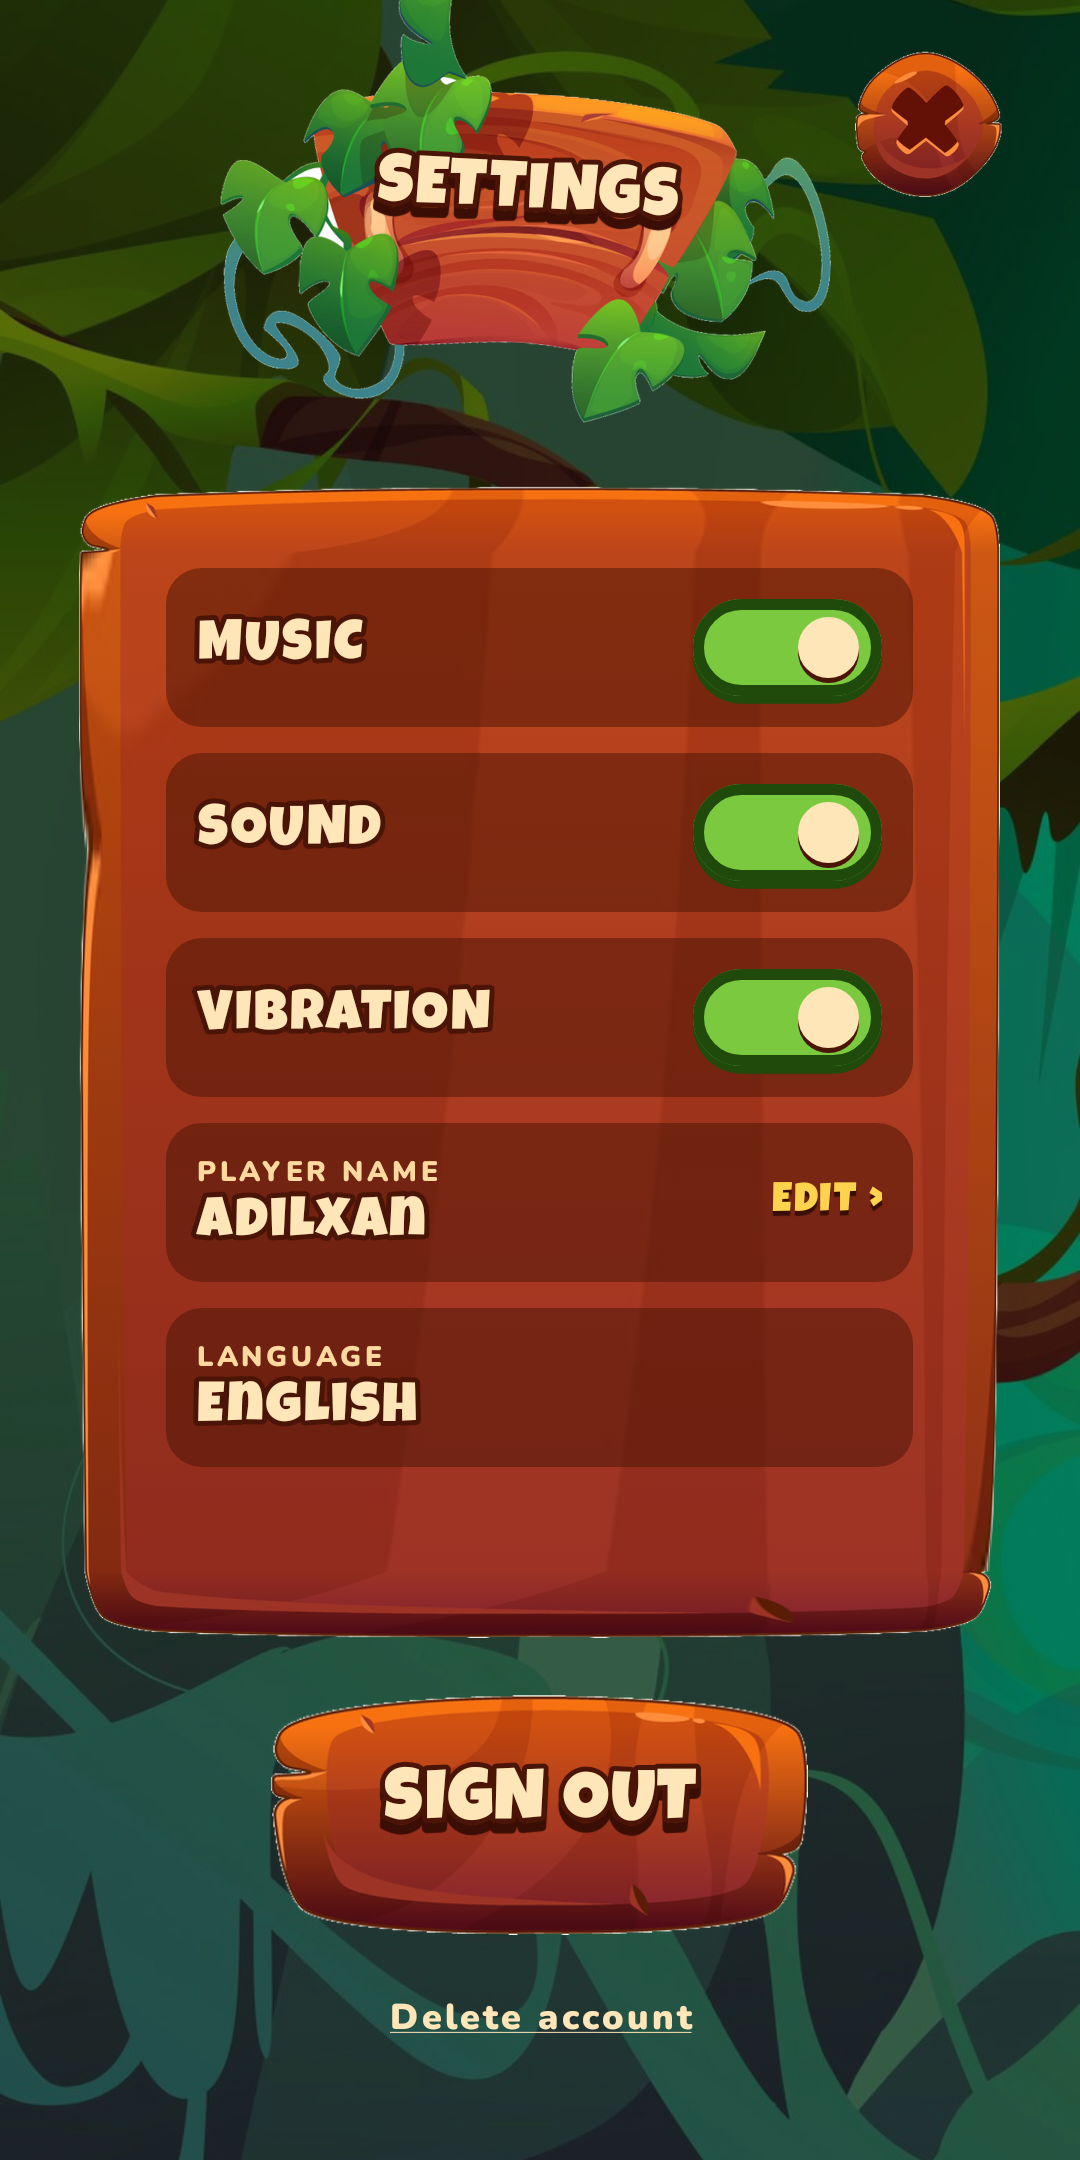
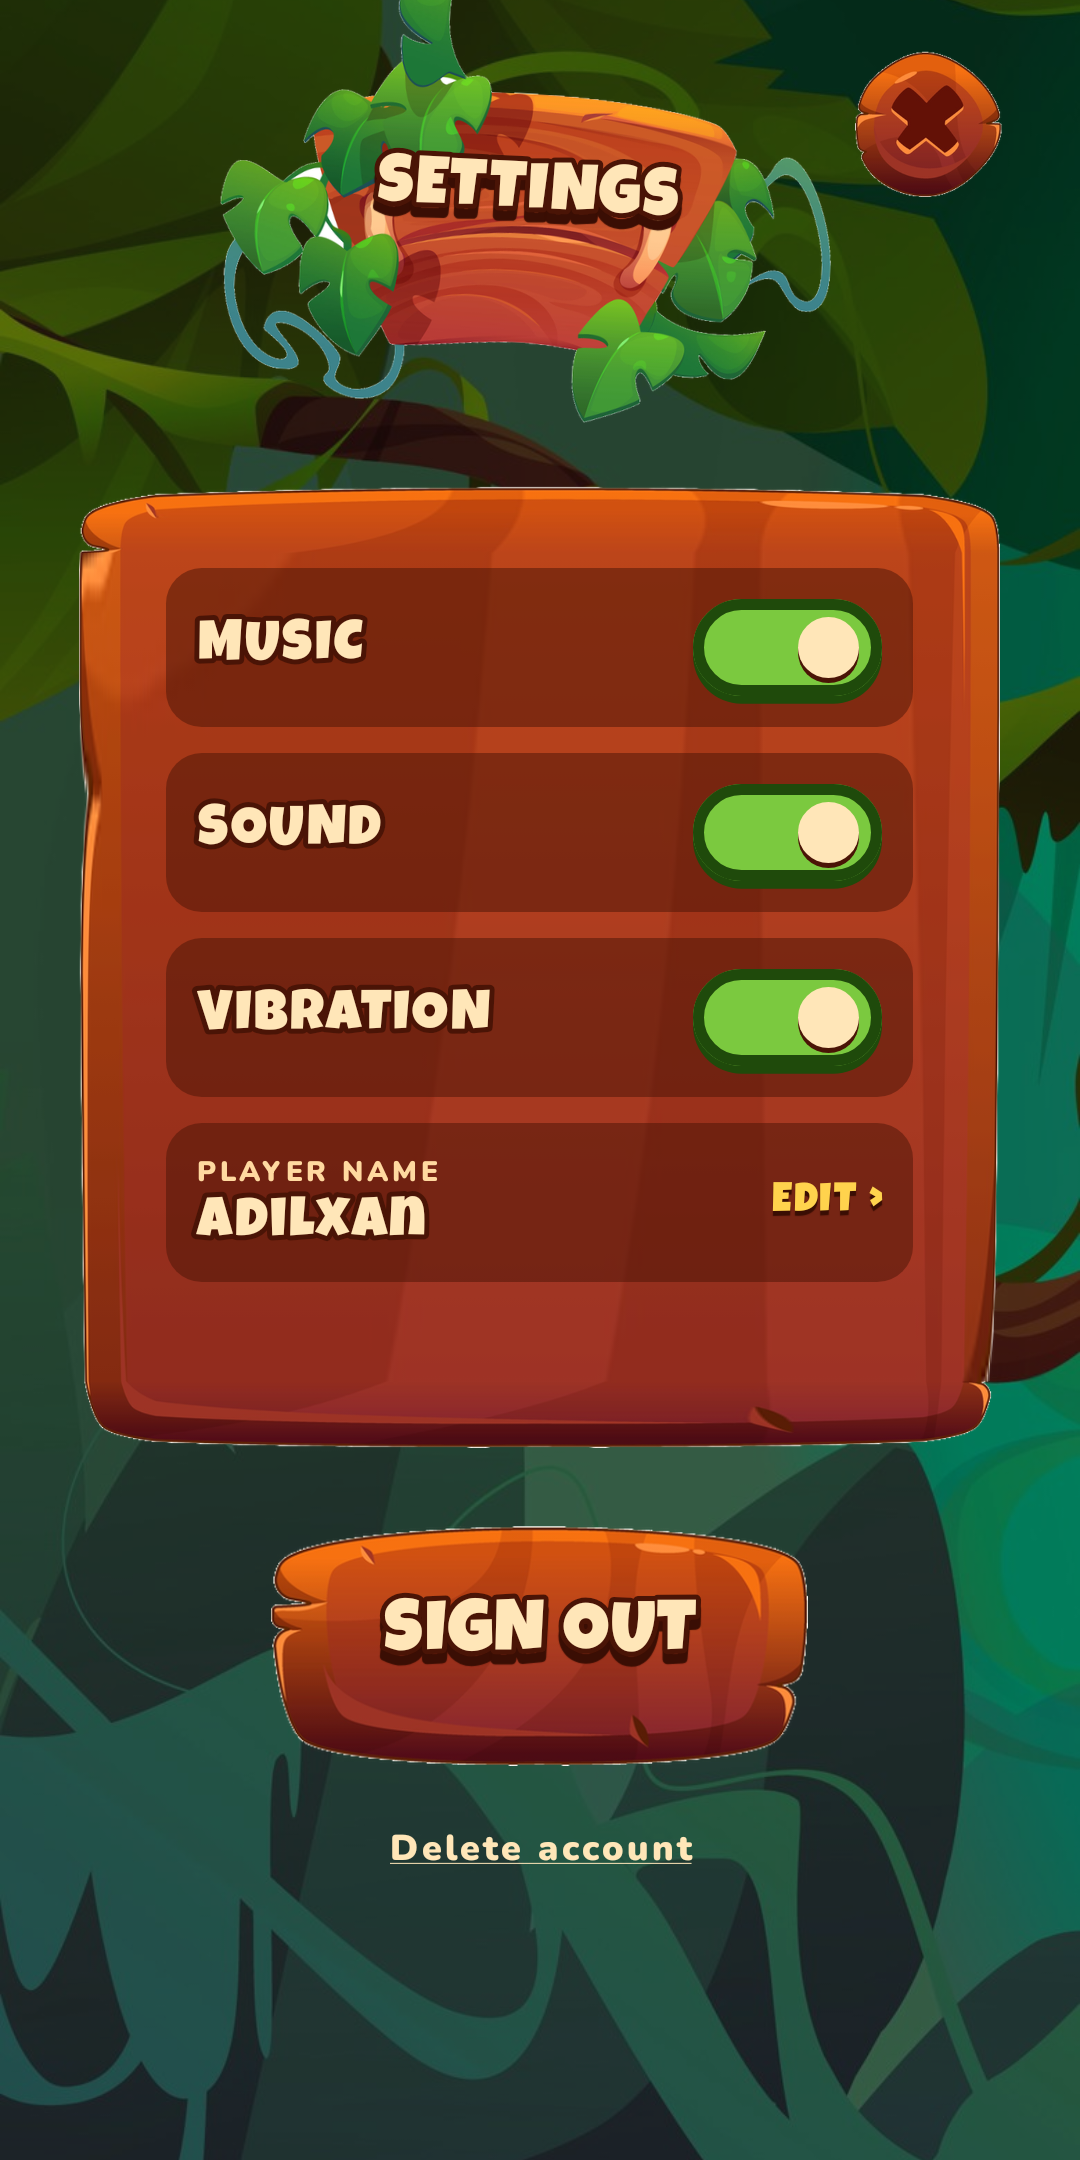
Settings: remove the language row

Changed region(s): [[0.0611, 0.3102, 0.9472, 0.8995], [0.3667, 0.9306, 0.6417, 0.9616]]

diff --git a/app/src/main/java/uz/visionsystemscorp/puzzle15game/presenter/screens/settings/SettingsScreen.kt b/app/src/main/java/uz/visionsystemscorp/puzzle15game/presenter/screens/settings/SettingsScreen.kt
@@ -102,7 +102,7 @@ internal fun SettingsContent(
         TopSign(stringResource(R.string.settings_title), fontSize = 26.sp)
         TopRightCloseButton { onEventDispatcher(SettingsEvent.CloseClicked) }
 
-        WoodPanel(Modifier.place(15.dp, 190.dp, 360.dp, 450.dp).popIn(delayMillis = 150, initialScale = 0.3f)) {
+        WoodPanel(Modifier.place(15.dp, 190.dp, 360.dp, 376.dp).popIn(delayMillis = 150, initialScale = 0.3f)) {
             Column(
                 modifier = Modifier.padding(horizontal = 4.dp, vertical = 6.dp),
                 verticalArrangement = Arrangement.spacedBy(10.dp),
@@ -120,16 +120,13 @@ internal fun SettingsContent(
                         shadowOffset = 2.dp,
                     )
                 }
-                SettingRow {
-                    LabeledValue(stringResource(R.string.settings_language), stringResource(R.string.settings_language_value))
-                }
             }
         }
 
         WoodButton(
             text = stringResource(if (uiState.isSignedIn) R.string.settings_sign_out else R.string.settings_sign_in),
             onClick = { onEventDispatcher(SettingsEvent.AccountClicked) },
-            modifier = Modifier.place(90.dp, 662.dp, 210.dp, 94.dp),
+            modifier = Modifier.place(90.dp, 596.dp, 210.dp, 94.dp),
             fontSize = 28.sp,
         )
 
@@ -137,7 +134,7 @@ internal fun SettingsContent(
             Text(
                 text = stringResource(R.string.settings_delete_account),
                 modifier = Modifier
-                    .place(95.dp, 770.dp, 200.dp, 36.dp)
+                    .place(95.dp, 704.dp, 200.dp, 36.dp)
                     .pressClickable(role = Role.Button) { onEventDispatcher(SettingsEvent.DeleteAccountClicked) }
                     .wrapContentHeight(),
                 style = LabelStyle.copy(fontSize = 14.sp, color = Cream, textDecoration = TextDecoration.Underline),
